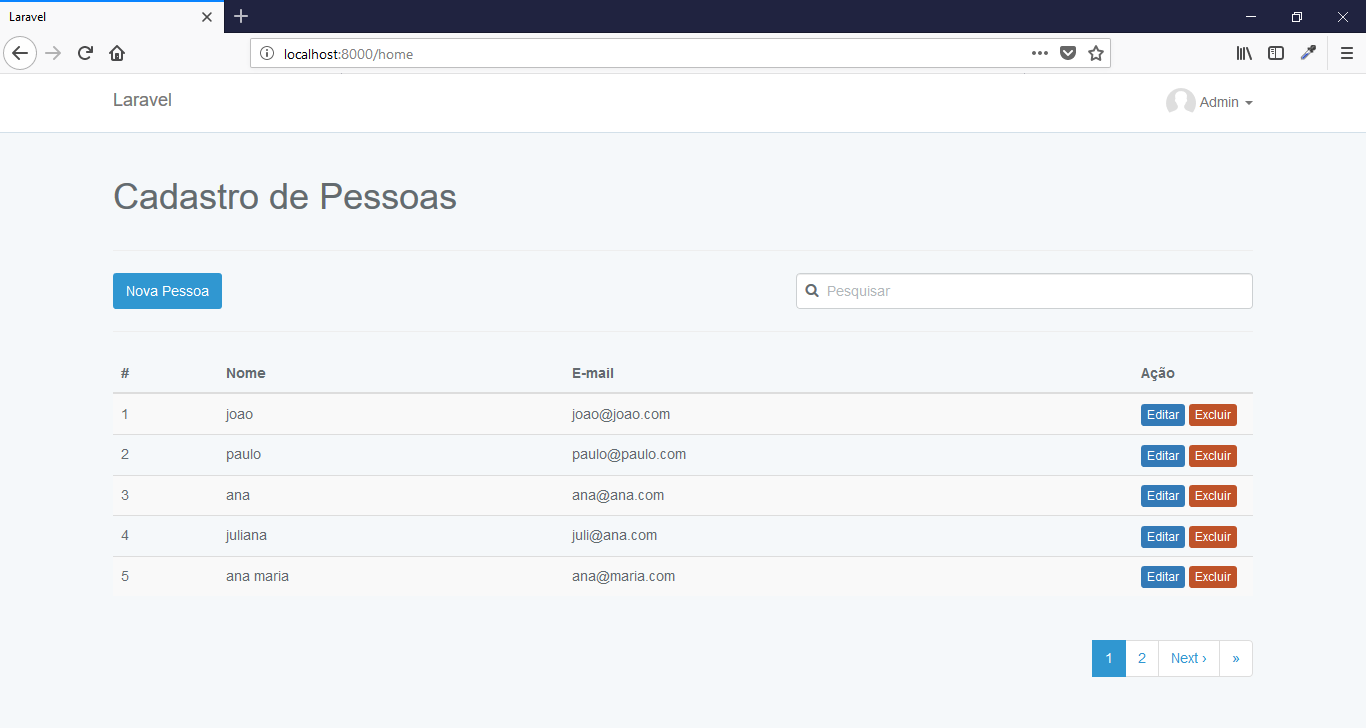
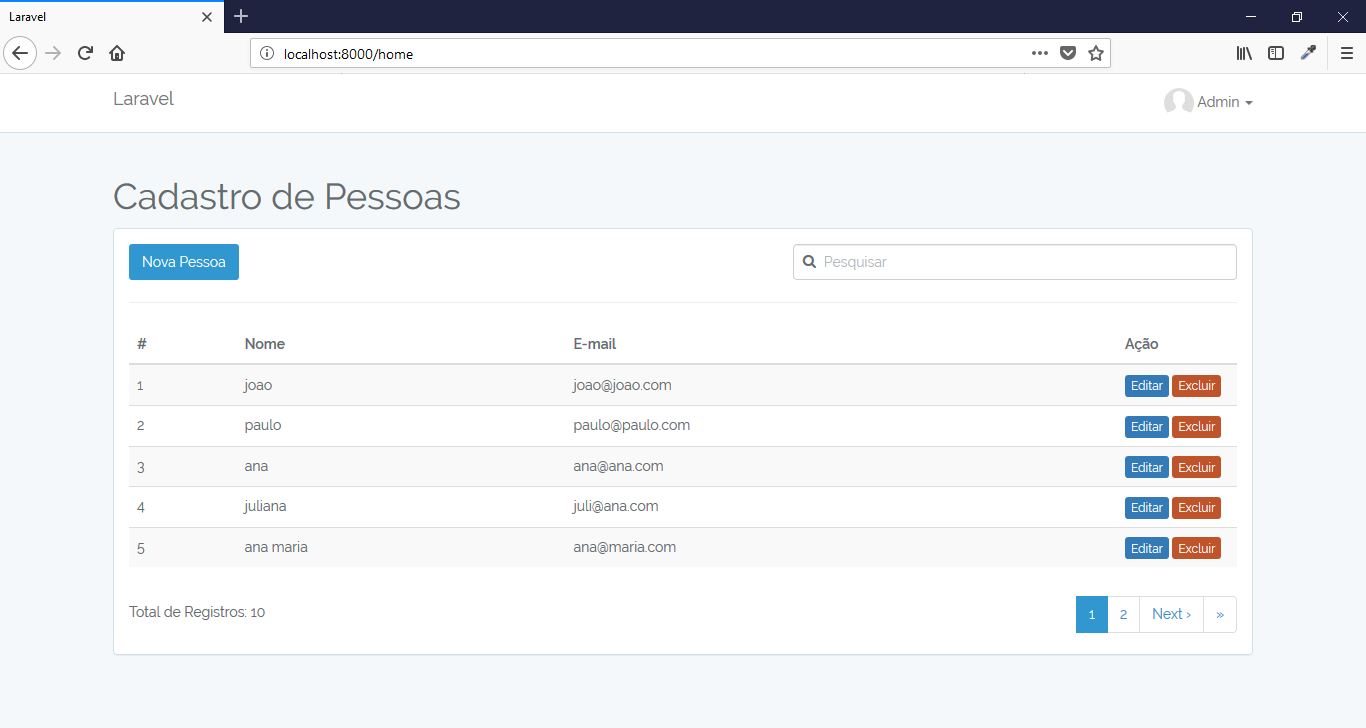
Upload files

diff --git a/public/css/style.css b/public/css/style.css
@@ -63,6 +63,29 @@
 .btn-twitter.active,.btn-twitter:active,.open>.dropdown-toggle.btn-twitter{background-image:none}
 .btn-twitter .badge{color:#55acee;background-color:#fff}
 
+.panel-default {
+	padding: 15px;
+}
+
+.pag-left {
+	display: block;
+	width: 50%;
+	float: left;
+	text-align:left;
+	padding-left: 15px;
+	padding-top: 12px;
+	height: 50px;
+}
+.pag-right {
+	display: block;
+	width: 50%;
+	float: right;
+	text-align:right;
+	padding-right: 15px;
+	margin-top: -15px;
+	height: 50px;
+}
+
 /* enable absolute positioning */
 .inner-addon {
   position: relative;

diff --git a/public/js/app.js b/public/js/app.js
@@ -40,6 +40,7 @@ app.controller('pessoaController', function($scope, $http, pessoaService) {
 		  $scope.pessoas      = response.data;
 		  $scope.totalPages   = response.last_page;
 		  $scope.currentPage  = response.current_page;
+		  $scope.total 		  = response.total;
 
 		  // Pagination Range
 		  var pages = [];

diff --git a/resources/views/home.blade.php b/resources/views/home.blade.php
@@ -8,44 +8,50 @@
 				<h1>Cadastro de Pessoas</h1>
 			</div>
 		</div>
-		<hr>
-		<div class="row">
-			<div class="col-md-7">
-				<button type="button" class="btn btn-primary" ng-click="cadastrar()">Nova Pessoa</button>
-			</div>
-			<div class="col-md-5">
-				<div class="inner-addon left-addon">
-				    <i class="fa fa-search"></i>
-				    <input type="text" class="form-control" placeholder="Pesquisar" ng-model="pesquisar" />
+		<div class="panel panel-default">
+			<div class="row">
+				<div class="col-md-7">
+					<button type="button" class="btn btn-primary" ng-click="cadastrar()">Nova Pessoa</button>
+				</div>
+				<div class="col-md-5">
+					<div class="inner-addon left-addon">
+						<i class="fa fa-search"></i>
+						<input type="text" class="form-control" placeholder="Pesquisar" ng-model="pesquisar" />
+					</div>
 				</div>
 			</div>
-		</div>
-		<hr>
-		<div class="row">
-			<div class="col-md-12">
-				<table class="table table-striped">
-					<thead>
-						<tr>
-							<th>#</th>
-							<th>Nome</th>
-							<th>E-mail</th>
-							<th width="120">Ação</th>
-						</tr>
-					</thead>
-					<tbody>
-						<tr ng-repeat="pessoa in pessoas | filter: pesquisar">
-							<td><%pessoa.id%></td>
-							<td><%pessoa.nome%></td>
-							<td><%pessoa.email%></td>
-							<td>
-								<button class="btn btn-info btn-xs" ng-click="editar(pessoa)">Editar</button>
-								<button class="btn btn-danger btn-xs" ng-click="excluir(pessoa)">Excluir</button>
-							</td>
-						</tr>
-					</tbody>
-				</table>
-				<div class="pull-right">
-					<pagination></pagination>
+			<hr>
+			<div class="row">
+				<div class="col-md-12">
+					<table class="table table-striped">
+						<thead>
+							<tr>
+								<th>#</th>
+								<th>Nome</th>
+								<th>E-mail</th>
+								<th width="120">Ação</th>
+							</tr>
+						</thead>
+						<tbody>
+							<tr ng-repeat="pessoa in pessoas | filter: pesquisar">
+								<td><%pessoa.id%></td>
+								<td><%pessoa.nome%></td>
+								<td><%pessoa.email%></td>
+								<td>
+									<button class="btn btn-info btn-xs" ng-click="editar(pessoa)">Editar</button>
+									<button class="btn btn-danger btn-xs" ng-click="excluir(pessoa)">Excluir</button>
+								</td>
+							</tr>
+						</tbody>
+					</table>
+					<div class="row">
+						<div class="pag-left">
+							Total de Registros: <%total%>
+						</div>
+						<div class="pag-right">
+							<pagination></pagination>
+						</div>
+					</div>
 				</div>
 			</div>
 		</div>
